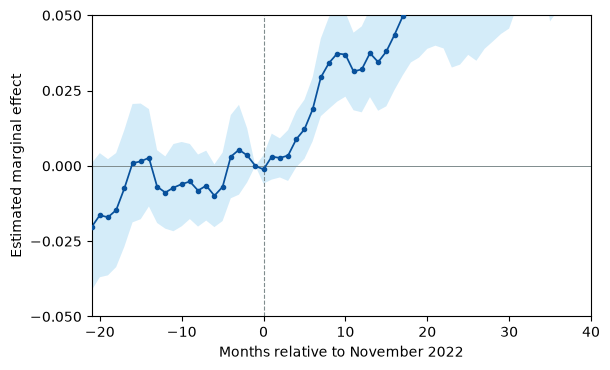
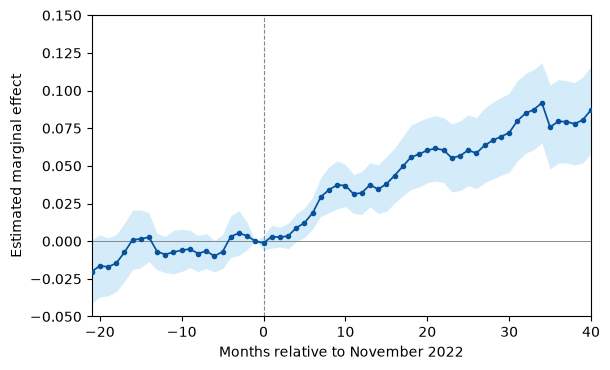
refine Jev robustness table and plots

diff --git a/analysis/paper_replication/lib/jev_robustness.py b/analysis/paper_replication/lib/jev_robustness.py
@@ -130,6 +130,14 @@ def _render_event_file(source: Path, destination: Path, ylim: tuple[float, float
     plt.close(fig)
 
 
+def _shared_unemployed_limits(sources: list[Path]) -> tuple[float, float]:
+    """Give all unemployment event studies a common range that contains every CI."""
+
+    max_ci = max(float(pd.read_csv(source)["ci_high"].max()) for source in sources)
+    upper = max(0.05, math.ceil((max_ci + 0.0125) / 0.025) * 0.025)
+    return -0.05, round(upper, 3)
+
+
 def build_jev_robustness_outputs(
     estimates_dir: str | Path,
     output_dir: str | Path,
@@ -147,13 +155,13 @@ def build_jev_robustness_outputs(
             "Anthropic nearest-neighbor exposure",
         ),
         (
-            "Panel B. Jev: highest-probability U.S. occupation",
+            "Panel B. Jev: highest-probability O*NET occupation",
             "nearest",
             ("jev_nearest_benchmark", "jev_nearest_cno1_month", "jev_nearest_cno1_month_no2021"),
             "Jev highest-probability category",
         ),
         (
-            "Panel C. Jev: probability-weighted U.S. occupations",
+            "Panel C. Jev: probability-weighted O*NET occupations",
             "weighted",
             ("jev_weighted_benchmark", "jev_weighted_cno1_month", "jev_weighted_cno1_month_no2021"),
             "Jev probability-weighted exposure",
@@ -293,8 +301,8 @@ def build_jev_robustness_outputs(
             r"\bottomrule",
             r"\end{tabular*}",
             r"\begin{tablenotes}[flushleft]",
-            r"\tiny",
-            r"\item \emph{Notes:} Entries are marginal effects for the adjustment period (event times 0--24) and the later period (25--40), relative to all pre-treatment months. Panel A reproduces the baseline specification. Panels B--D use, respectively, the Jev-assigned U.S. occupation with the highest probability, the probability-weighted average across U.S. occupations, and Jev's direct observed-exposure score. Columns 1 and 4 include CNO4 and year-month fixed effects; the remaining columns include CNO4 and CNO1-by-year-month fixed effects. Columns 3 and 6 exclude 2021. Exposure is divided by 0.10. Standard errors are clustered by CNO4. The pre-treatment row tests the joint null that all available pre-treatment event-study coefficients equal zero: event times $-21$ through $-2$ when 2021 is included and $-10$ through $-2$ otherwise. Equality rows test whether the adjustment- and later-period effects are equal. $^{***}p<0.01$, $^{**}p<0.05$, and $^{*}p<0.10$.",
+            r"\footnotesize",
+            r"\item \emph{Notes:} Entries are marginal effects for the adjustment period (event times 0--24) and the later period (25--40), relative to all pre-treatment months. Panel A reproduces the baseline specification. Panels B--D use, respectively, the Jev-assigned O*NET occupation with the highest probability, the probability-weighted average across O*NET occupations, and Jev's direct observed-exposure score. Columns 1 and 4 include CNO4 and year-month fixed effects; the remaining columns include CNO4 and CNO1-by-year-month fixed effects. Columns 3 and 6 exclude 2021. Exposure is divided by 0.10. Standard errors are clustered by CNO4. The pre-treatment row tests the joint null that all available pre-treatment event-study coefficients equal zero: event times $-21$ through $-2$ when 2021 is included and $-10$ through $-2$ otherwise. Equality rows test whether the adjustment- and later-period effects are equal. $^{***}p<0.01$, $^{**}p<0.05$, and $^{*}p<0.10$.",
             r"\end{tablenotes}",
             r"\end{threeparttable}",
             r"\end{table}",
@@ -308,13 +316,18 @@ def build_jev_robustness_outputs(
     pd.DataFrame(rows).to_csv(results_path, index=False)
 
     figure_paths: dict[str, Path] = {}
+    unemployed_sources = [
+        estimates / f"twfe_event_jev_{measure}_cno1_month_ln_parados.csv"
+        for measure in ("nearest", "weighted", "direct")
+    ]
+    unemployed_limits = _shared_unemployed_limits(unemployed_sources)
     for measure, spec_measure in [
         ("nearest", "nearest"),
         ("weighted", "weighted"),
         ("direct", "direct"),
     ]:
         for outcome, outcome_file, limits, step in [
-            ("unemployed", "ln_parados", (-0.05, 0.05), 0.025),
+            ("unemployed", "ln_parados", unemployed_limits, 0.025),
             ("contracts", "ln_contratos", (-0.30, 0.30), 0.10),
         ]:
             source = estimates / f"twfe_event_jev_{spec_measure}_cno1_month_{outcome_file}.csv"

diff --git a/analysis/paper_replication/figuresNtables/robustness_checks_jev_v1.tex b/analysis/paper_replication/figuresNtables/robustness_checks_jev_v1.tex
@@ -23,7 +23,7 @@ Pre-treatment joint-null $p$-value & $<0.001$ & 0.003 & 0.367 & $<0.001$ & 0.032
 $p$-value: equal phase effects & 0.001 & 0.486 & 0.486 & 0.488 & 0.807 & 0.806 \\
 Observations & 31,122 & 31,122 & 25,600 & 30,787 & 30,786 & 25,317 \\
 \addlinespace
-\multicolumn{7}{l}{\textbf{Panel B. Jev: highest-probability U.S. occupation}} \\
+\multicolumn{7}{l}{\textbf{Panel B. Jev: highest-probability O*NET occupation}} \\
 AI exposure $\times$ adjustment period & 0.022$^{***}$ & 0.018$^{***}$ & 0.017$^{***}$ & 0.020$^{**}$ & 0.003 & -0.001 \\
  & (0.005) & (0.005) & (0.005) & (0.008) & (0.008) & (0.007) \\
 \addlinespace
@@ -33,7 +33,7 @@ Pre-treatment joint-null $p$-value & $<0.001$ & $<0.001$ & 0.429 & $<0.001$ & 0.
 $p$-value: equal phase effects & $<0.001$ & 0.056 & 0.056 & 0.370 & 0.888 & 0.890 \\
 Observations & 31,122 & 31,122 & 25,600 & 30,787 & 30,786 & 25,317 \\
 \addlinespace
-\multicolumn{7}{l}{\textbf{Panel C. Jev: probability-weighted U.S. occupations}} \\
+\multicolumn{7}{l}{\textbf{Panel C. Jev: probability-weighted O*NET occupations}} \\
 AI exposure $\times$ adjustment period & 0.027$^{***}$ & 0.022$^{***}$ & 0.020$^{***}$ & 0.021$^{**}$ & 0.000 & -0.009 \\
  & (0.005) & (0.006) & (0.006) & (0.009) & (0.008) & (0.007) \\
 \addlinespace
@@ -58,8 +58,8 @@ CNO1 $\times$ year-month FE & No & Yes & Yes & No & Yes & Yes \\
 \bottomrule
 \end{tabular*}
 \begin{tablenotes}[flushleft]
-\tiny
-\item \emph{Notes:} Entries are marginal effects for the adjustment period (event times 0--24) and the later period (25--40), relative to all pre-treatment months. Panel A reproduces the baseline specification. Panels B--D use, respectively, the Jev-assigned U.S. occupation with the highest probability, the probability-weighted average across U.S. occupations, and Jev's direct observed-exposure score. Columns 1 and 4 include CNO4 and year-month fixed effects; the remaining columns include CNO4 and CNO1-by-year-month fixed effects. Columns 3 and 6 exclude 2021. Exposure is divided by 0.10. Standard errors are clustered by CNO4. The pre-treatment row tests the joint null that all available pre-treatment event-study coefficients equal zero: event times $-21$ through $-2$ when 2021 is included and $-10$ through $-2$ otherwise. Equality rows test whether the adjustment- and later-period effects are equal. $^{***}p<0.01$, $^{**}p<0.05$, and $^{*}p<0.10$.
+\footnotesize
+\item \emph{Notes:} Entries are marginal effects for the adjustment period (event times 0--24) and the later period (25--40), relative to all pre-treatment months. Panel A reproduces the baseline specification. Panels B--D use, respectively, the Jev-assigned O*NET occupation with the highest probability, the probability-weighted average across O*NET occupations, and Jev's direct observed-exposure score. Columns 1 and 4 include CNO4 and year-month fixed effects; the remaining columns include CNO4 and CNO1-by-year-month fixed effects. Columns 3 and 6 exclude 2021. Exposure is divided by 0.10. Standard errors are clustered by CNO4. The pre-treatment row tests the joint null that all available pre-treatment event-study coefficients equal zero: event times $-21$ through $-2$ when 2021 is included and $-10$ through $-2$ otherwise. Equality rows test whether the adjustment- and later-period effects are equal. $^{***}p<0.01$, $^{**}p<0.05$, and $^{*}p<0.10$.
 \end{tablenotes}
 \end{threeparttable}
 \end{table}

diff --git a/tests/test_jev_robustness.py b/tests/test_jev_robustness.py
@@ -10,6 +10,7 @@ ROOT = Path(__file__).resolve().parents[1]
 sys.path.insert(0, str(ROOT / "analysis" / "paper_replication"))
 
 from lib.jev_robustness import (
+    _shared_unemployed_limits,
     build_exposure_correlation_matrix,
     build_jev_robustness_outputs,
     prepare_jev_panel,
@@ -73,15 +74,28 @@ class JevRobustnessTests(unittest.TestCase):
         )
         for measure in ("nearest", "weighted", "direct"):
             for outcome in ("ln_parados", "ln_contratos"):
-                event_frame.to_csv(
+                file_frame = event_frame.copy()
+                if measure == "direct" and outcome == "ln_parados":
+                    file_frame["ci_high"] = 0.12
+                file_frame.to_csv(
                     estimates_dir / f"twfe_event_jev_{measure}_cno1_month_{outcome}.csv",
                     index=False,
                 )
 
+        unemployment_files = [
+            estimates_dir / f"twfe_event_jev_{measure}_cno1_month_ln_parados.csv"
+            for measure in ("nearest", "weighted", "direct")
+        ]
+        self.assertEqual(_shared_unemployed_limits(unemployment_files), (-0.05, 0.15))
+
         outputs = build_jev_robustness_outputs(estimates_dir, output_dir)
         table = Path(outputs["table"]).read_text(encoding="utf-8")
         self.assertIn("Panel A. Baseline specification", table)
+        self.assertIn("Panel B. Jev: highest-probability O*NET occupation", table)
+        self.assertIn("Panel C. Jev: probability-weighted O*NET occupations", table)
         self.assertIn("Panel D. Jev: directly imputed observed exposure", table)
+        self.assertIn("Jev-assigned O*NET occupation", table)
+        self.assertIn(r"\footnotesize", table)
         self.assertNotIn("RF-relative", table)
         self.assertIn(r"AI exposure $\times$ adjustment period", table)
         self.assertIn(r"AI exposure $\times$ later period", table)
